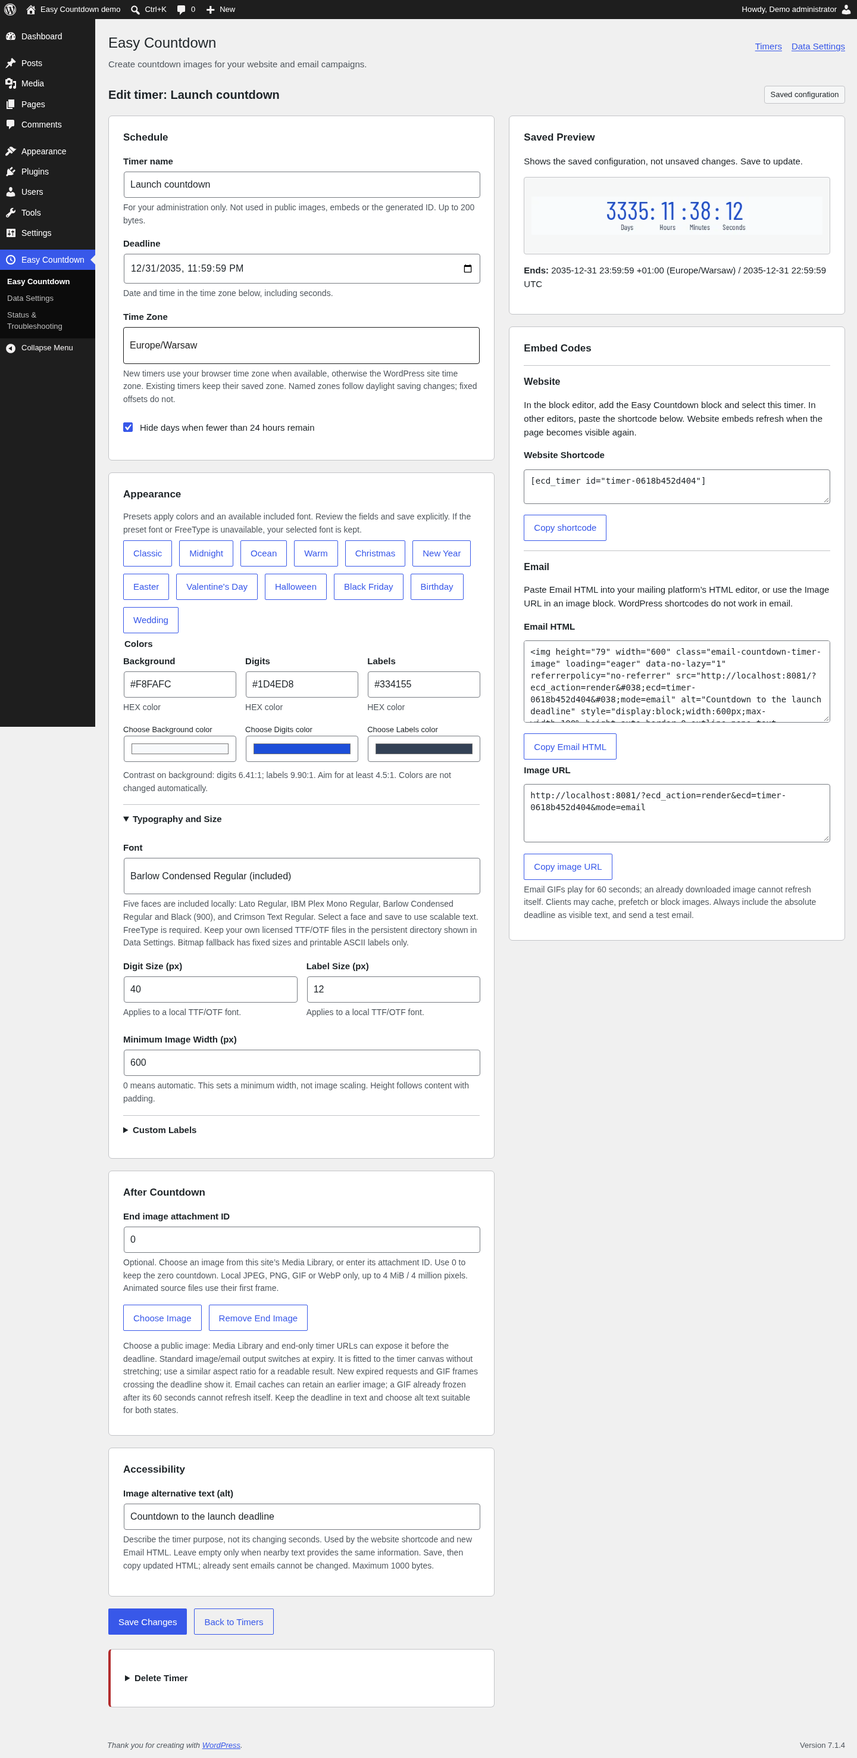
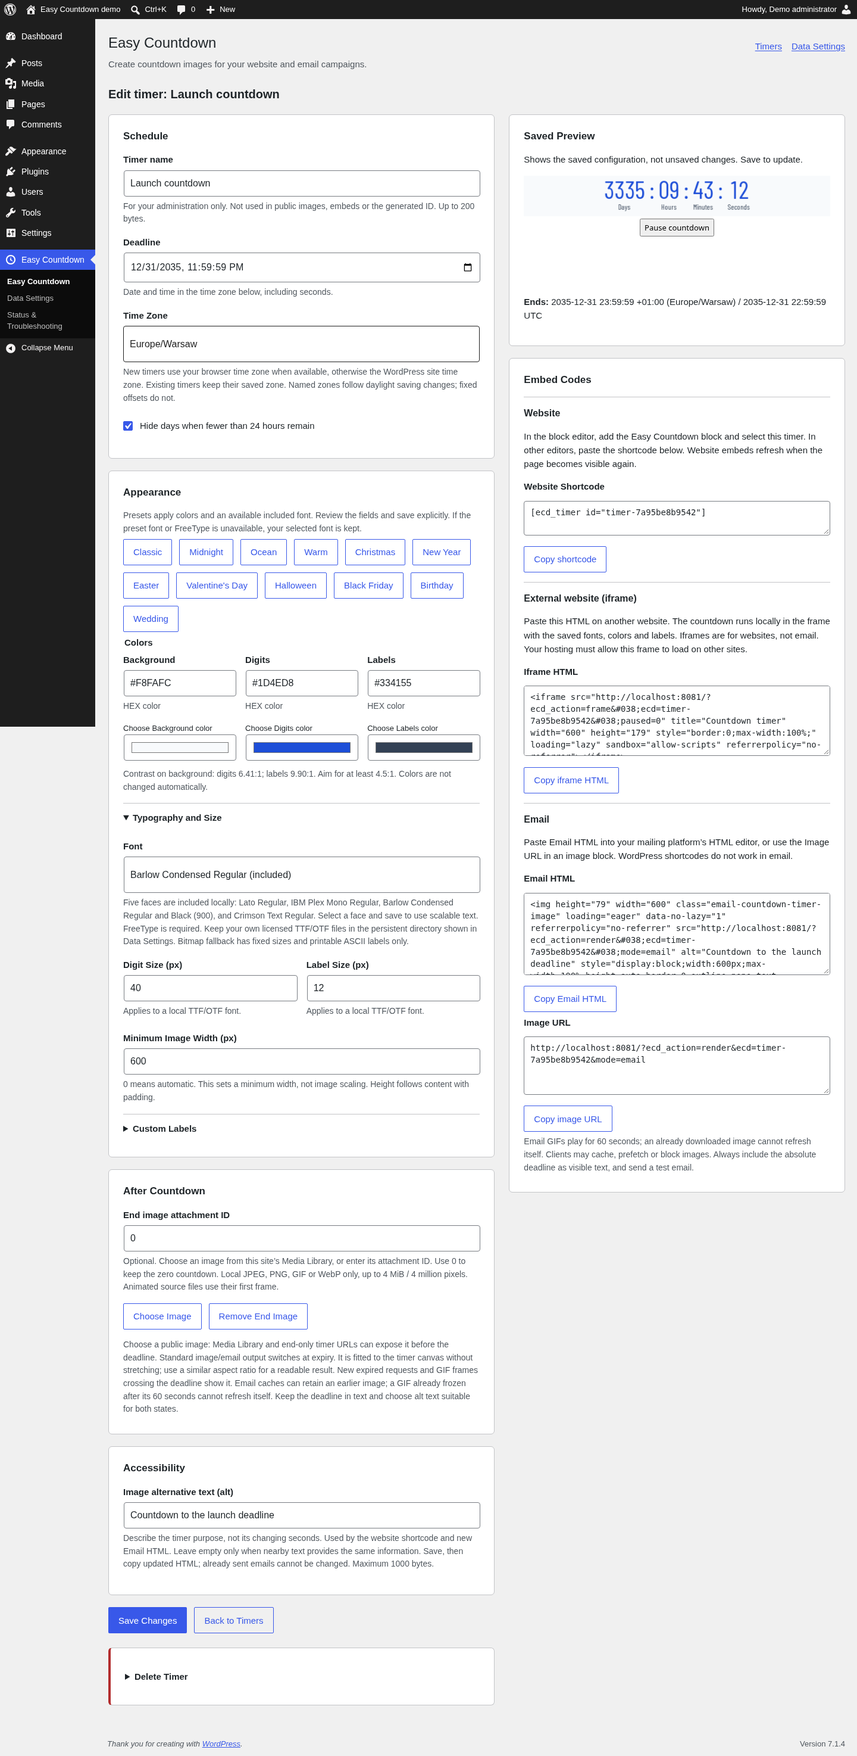
Refresh 12.8.0 handoff and native screenshots; cover nested preview messages

diff --git a/docs/wiki/Admin-Interface.md b/docs/wiki/Admin-Interface.md
@@ -1,10 +1,10 @@
 # Admin Interface
 
-The 12.2.0 interface runs inside the existing **Easy Countdown** WordPress menu. All writes require `manage_options` and valid nonces. The option name, shortcode, image query parameters and existing campaign values remain compatible.
+The interface runs inside the existing **Easy Countdown** WordPress menu. All writes require `manage_options` and valid nonces. The option name, shortcode, image query parameters and existing campaign values remain compatible.
 
 ## Find or create a timer
 
-The default screen is **Your Timers**, with name/ID search and 25 records per page. It shows an optional campaign name alongside the immutable ID, deadline/time zone, a text status, **Edit** and **Get Embed Code**. It does not generate image thumbnails. Pagination limits HTML, not the size of the existing single database option containing all timers.
+The default screen is **Your Timers**, with name/ID search and 25 records per page. It shows saved timer names, deadline/time zone, a text status, **Edit** and **Get Embed Code**. It does not generate image thumbnails. Pagination limits HTML, not the size of the existing single database option containing all timers.
 
 Select **Create Timer**. Enter a required unique **Timer name**, deadline and time zone in **Schedule**, then choose the countdown preset/colors in **Appearance**. Internal IDs are generated on the server and hidden from ordinary management fields. Typography, custom labels and existing geometry controls remain available.
 
@@ -20,13 +20,13 @@ The **Time Zone** selector initializes new forms from the browser zone when supp
 
 **Create Timer** and **Save Changes** submit explicitly. There is no autosave. Invalid fields are marked individually and listed in an error summary. With JavaScript, focus moves to the summary and linked fields open their enclosing sections. Server validation preserves entered scalar values; malformed non-scalar requests are rejected. A failed database write must not show a success message.
 
-The unsaved-change badge tracks changes locally; browsers may warn before leaving an edited form. No request is made for each keystroke or color change. The contrast helper compares digit/label colors against the image background without changing campaign colors or guaranteeing accessibility of a complete email.
+The form tracks unsaved changes locally; browsers may warn before leaving an edited form. No save-status badge is shown. No request is made for each keystroke or color change. The contrast helper compares digit/label colors against the image background without changing campaign colors or guaranteeing accessibility of a complete email.
 
 ## Preview and embedding
 
-**Saved Preview** loads a static image from the existing image endpoint. It deliberately does not pretend to show unsaved values. Save first to update the image. If Imagick is present, **Preview Animation** loads the GIF only after a click. **Stop Preview** returns to the static image. A hidden browser tab also stops the preview; no refresh polling is installed.
+**Saved Preview** counts down locally in a sandboxed iframe using the saved deadline and rasterized local font. Save first to apply form changes. Pause/Resume freezes the snapshot and catches up when resumed; returning to a hidden tab catches up without repeated server requests. JavaScript is required for ticking; no-JS keeps a static PNG snapshot. There is no Preview Animation button or per-second polling.
 
-**Embed Codes** offers Image URL, Email HTML and Website Shortcode. The email HTML includes image alternative text and the absolute deadline as text. Review that text before mailing, especially after changing a campaign deadline. No image can guarantee correct countdown timing in all email clients because proxies, prefetch and caching remain outside this plugin's control.
+**Embed Codes** offers Image URL, image-only Email HTML, Website Shortcode and External website (iframe). Copy the iframe into another website’s HTML editor; scripts must be allowed and host framing headers must permit the standalone frame URL. Email HTML retains image alternative text without an appended deadline paragraph. Add explanatory deadline text in your own template when needed. No image can guarantee correct countdown timing in all email clients because proxies, prefetch and caching remain outside this plugin's control.
 
 **Copy Code** announces success only after the clipboard write succeeds. If access is unavailable, it selects the text and explains manual copying. **All formats (manual copy)** exposes normal read-only textareas for every format.
 
@@ -58,6 +58,6 @@ The selector offers the five registered bundled faces and installed local TTF/OT
 
 ## Saved animation and email copy
 
-The saved preview starts automatically when JavaScript is enabled, the page is visible and reduced motion is not requested. It refreshes after 58 seconds to continue from the current server time. There is no Preview Animation button. Reduced-motion and no-JavaScript views keep the static preview. Copied Email HTML is image-only; add deadline text in your own email content. Outlook animation follows client settings and is not forced. No Custom CSS or per-timer Clean uninstall control is added.
+The saved preview starts automatically with JavaScript and ticks without motion transitions, including with reduced motion. Imagick is not needed. The fallback PNG can be up to 60 seconds old when the glyph cache is warm; the active clock uses the saved absolute deadline and the device clock. Keep the device clock correct. Copied Email HTML is image-only; add deadline text in your own email content. Outlook animation follows client settings and is not forced. No Custom CSS or per-timer Clean uninstall control is added.
 
 Saved previews and Gutenberg now use locally ticking raster frames. The Gutenberg canvas has no static-preview copy or refresh buttons; actions remain in its sidebar. The editor has no save-status badge. Copy the new External website (iframe) HTML under Embed Codes for other websites; see the main README for cache/header requirements.

diff --git a/docs/REVIEW-HANDOFF-12.8.0.md b/docs/REVIEW-HANDOFF-12.8.0.md
@@ -1,0 +1,75 @@
+# Easy Countdown 12.8.0: active previews and external embedding
+
+This unreleased candidate addresses the maintainer's feedback on 12.7.0.
+The maintainer handles the existing WordPress.org submission personally.
+Preparing this package does not publish a release or submit it for review.
+
+## Exact installation package
+
+- Root, display name and text domain: `easy-countdown`, **Easy Countdown**.
+- Version: **12.8.0**; main file: `email-countdown-timer.php`.
+- Installation ZIP: **656,033 bytes / 41 files**.
[1 lines of base64/hex data omitted]
+- Runtime and screenshot source: `ba33c952bad037d75086006991204558ddc26b28`.
+- Integration, latest-head CI and automated reviews: [PR #44](https://github.com/dominiczajac/email-countdown-timer/pull/44).
+
+Open the successful final CI run linked on the PR, expand **Artifacts**, download
+**plugin-check-evidence**, extract it and install the inner **easy-countdown.zip**.
+The outer evidence ZIP and source/materials ZIPs are not installation packages.
+Check `distribution.json`, both version fields and all 41 manifest hashes.
+The installation hashes must match `.wordpress-org/capture.json`; subsequent
+documentation/catalog-only commits can retain this package identity.
+The [12.7.0 handoff](REVIEW-HANDOFF-12.7.0.md) is historical.
+
+## Changes
+
+Saved admin and Gutenberg previews count down locally, including after 60 seconds
+and after returning from a background tab. They use PNG glyphs rasterized from
+the saved server font, with no font download or request per second. Imagick is
+not required. Pause/Resume freezes and catches up. Reduced-motion settings do not
+prevent plain number changes; no-JS keeps a PNG snapshot. The active clock uses
+the saved absolute deadline and requires a correctly set device clock.
+
+The Gutenberg canvas omits the static-preview explanation and refresh buttons.
+Refresh campaigns, Refresh preview and Pause/Resume preview remain in its sidebar.
+The dashboard clock/title stay together on the left. The inert Saved configuration
+badge is removed, while the unsaved-form navigation guard remains.
+
+**Embed Codes > External website (iframe)** provides copyable HTML for another
+website. Its read-only `ecd_action=frame` route accepts existing canonical IDs
+and GET/HEAD only. It uses an opaque `allow-scripts` sandbox, nonce CSP and
+no-referrer policy. It exposes neither private names nor font paths/files.
+Errors are visible and send only a boolean status to the owning editor window.
+
+Exclude `ecd_action=frame` from page/edge caches. Host-injected X-Frame-Options
+or CSP may block external framing and require a narrowly scoped host rule.
+The route uses one short-lived raster cache slot per timer, the existing session
+lock topology and a 256 KiB ceiling (or smaller configured limit). Busy or
+unsupported locks use an active system-font fallback. The cached no-JS snapshot
+can be up to 60 seconds old. This is not a global rate limit or complete SQLite
+compatibility; apply the deployment's infrastructure capacity policy.
+
+Image/GIF/email output, saved settings, existing URLs, five pinned OFL faces and
+the original renderer/oracle remain unchanged. The iframe is for websites;
+copied email HTML remains image-only. Custom CSS, per-timer clean uninstall and
+forced Outlook autoplay remain excluded. Global opt-in cleanup is unchanged.
+
+## Evidence and owner acceptance
+
+[Executed local checks](CI-VERIFICATION-12.8.0.md) and six genuine native WordPress
+screenshots are recorded separately from hosted CI and automated static review.
+The PR/delivery receipt identifies final hosted results and parsed Plugin Check
+findings. A green badge alone does not replace those reports or owner acceptance.
+
+All rows in [ACCEPTANCE-12.8.0.csv](ACCEPTANCE-12.8.0.csv) remain pending. Retest
+the exact bytes on staging, including nested Gutenberg, no-JS, narrow layouts,
+manual assistive technology, below 24h/expiry, cross-origin embedding and actual
+host CSP/cache settings. Record real host/theme/PHP/client versions and results.
+Licensed FlyingPress/WP Rocket packages and real Sendy → Gmail/Outlook/Apple Mail
+acceptance remain separate dependencies. Classic Office LTSC Professional Plus
+2024 controls GIF playback; the plugin does not force it.
+
+Use the existing **easy-countdown** review thread and confirmed **ddoomm** account;
+do not create a duplicate submission. Review the [unsent reply](WORDPRESS-ORG-REPLY-12.8.0.md)
+after completing acceptance. No real email, production deployment, release/tag,
+native Wiki, environment or WordPress.org publication is performed here.

diff --git a/docs/CI-VERIFICATION-12.8.0.md b/docs/CI-VERIFICATION-12.8.0.md
@@ -1,0 +1,68 @@
+# 12.8.0 candidate: executed checks and boundaries
+
+This record covers [PR #44](https://github.com/dominiczajac/email-countdown-timer/pull/44).
+It records executed local results. Final hosted checks, automated Codex/Claude
+reviews and integrated-main verification are identified on that PR and in the
+delivery receipt; no future run is predeclared successful.
+
+## Package and local execution
+
+Runtime/capture source: `ba33c952bad037d75086006991204558ddc26b28`.
+Installation ZIP: **12.8.0**, **656,033 bytes**, **41 files**;
[1 lines of base64/hex data omitted]
+All installed hashes were read back on the native WordPress container and match
+the build manifest and `.wordpress-org/capture.json`.
+
+Executed checks include:
+
+- **762 PHP assertions**, **792** with alt compatibility, and **76 block adapter
+  assertions**, using native GD/FreeType/Imagick where available.
+- **346 frame assertions**: five fonts, custom/empty/Polish labels, expiry,
+  data/escaping boundaries, all 15 PNG sprites, the valid 3999×53 bitmap canvas
+  and an unsupported-lock active system-font fallback.
+- JavaScript frame-clock checks in raster, system-font and initially hidden/paused
+  modes: absolute deadline, 65-second progression, pause/resume, sleep, visibility,
+  persisted pageshow and expiry. **38 Gutenberg component assertions**, including
+  owning-window messages, spoof rejection and HTTP failure not cleared by load.
+- **22 clipboard assertions**, timezone aliases, privacy audit/tripwire,
+  syntax/whitespace checks and **16 packaging tests**.
+- Native Apache WordPress **7.1.4**, PHP **8.4.27**, MySQL **8.4.13**:
+  **123 admin**, **15 alt**, **4 privacy**, **6 maintenance**, **10 end-image**
+  and **18 frame browser checks** passed against this installed package.
+
+Native frame checks exercise a genuinely different-origin parent, opaque sandbox,
+PNG decoding, reduced-motion ticking, 65 seconds without image polling, pause,
+expiry/end-image, cold/warm cache headers, GET/HEAD/405/404/503, no private names
+or paths and nonce/CSP/no-store/referrer headers. Six screenshots were captured
+from synthetic data in the real panel, without editing UI pixels. The receipt
+contains source/tree, installed files, image dimensions/hashes, browser/server
+versions, actual anonymous PNG decoding and a copied diagnostics report.
+
+## Failures retained and corrected
+
+Earlier runs failed because old profile tests still queried `complete` and
+`naturalWidth` on the new iframe. These tests now inspect the actual decoded
+canvas, retaining their width requirement. Native clipboard testing also exposed
+a Chromium out-of-process iframe hit-test race immediately after parent scrolling;
+the real pointer test now allows the compositor to settle before clicking.
+No failed run is relabeled or waived.
+
+Review found four further defects: HTTP iframe load falsely cleared errors,
+sprite padding exceeded a valid renderer canvas, nested Gutenberg status was
+sent to the wrong window, and a background-loaded paused frame hid its fallback
+before drawing. Explicit status/ping, fit-to-original bounds, owning-window
+listeners and first-visible-draw behavior have regression coverage. The original
+renderer and frozen oracle are unchanged.
+
+Hosted CI independently installs the canonical ZIP on minimum/current WordPress,
+FPM/JIT, database/Redis, multisite/theme and named isolated/LiteSpeed profiles.
+Plugin Check must be parsed for both warnings and errors. Automated review is
+static review, not human approval or owner acceptance.
+
+## Remaining acceptance
+
+[All owner worksheet rows](ACCEPTANCE-12.8.0.csv) remain pending. Previous package
+feedback does not establish acceptance of these bytes. Actual host framing/cache
+rules, manual accessibility, licensed optimizers and real Sendy/client delivery
+remain separate. No release, submission, actual mail or production change is
+implied by this candidate.

diff --git a/docs/WORDPRESS-ORG-READINESS.md b/docs/WORDPRESS-ORG-READINESS.md
@@ -4,7 +4,7 @@
 
 The maintainer supplied the **Easy Countdown** acknowledgement from 3 November 2025 and the 8 April 2026 notice inviting an updated ZIP in the original thread. Continue the existing **easy-countdown** submission; do not create a duplicate. This repository does not claim directory approval.
 
-The current unreleased candidate is **12.7.0**: **Easy Countdown** as its display name, `easy-countdown` as its translation domain and ZIP root, and the existing main PHP filename. GitHub retains its repository name. Review [identity and compatibility](EASY-COUNTDOWN-EXPIRY-IMAGE.md) before moving an installation from the old GitHub package directory. The maintainer will submit the plugin personally; preparing these files does not send anything.
+The current unreleased candidate is **12.8.0**: **Easy Countdown** as its display name, `easy-countdown` as its translation domain and ZIP root, and the existing main PHP filename. GitHub retains its repository name. Review [identity and compatibility](EASY-COUNTDOWN-EXPIRY-IMAGE.md) before moving an installation from the old GitHub package directory. The maintainer will submit the plugin personally; preparing these files does not send anything.
 
 The confirmed WordPress.org contributor is **ddoomm** (Simple Fast Secure), as recorded in the historical [12.5.2 handoff](REVIEW-HANDOFF-12.5.2.md). Keep that confirmed username; do not replace it with an email or infer another profile from the GitHub account. The maintainer still needs to verify current account access, monitored email and 2FA.
 
@@ -14,7 +14,7 @@ The project includes a protected PR workflow; validation, escaping and permissio
 
 A single explicit manifest and ZIP builder are used by Plugin Check and disposable WordPress installation tests. CI includes PHP/GD/Imagick, WordPress single/multisite with database and Redis cache, browser interactions, full loopback HTTP, and Apache/nginx font-access tests. Results belong to the exact source revision and are recorded in its PR. Prior green reports do not establish verification of a later candidate.
 
-The [current Gate A handoff](REVIEW-HANDOFF-12.7.0.md) describes the exact package, genuine catalog screenshots, receipt and [pending maintainer worksheet](ACCEPTANCE-12.7.0.csv). The installed package includes the native block, optional website live text, five local font faces, occasion presets, Quick Create/dashboard access, campaign management and on-demand diagnostics. Animated GIF remains the default image mode; static previews respect PNG/WebP Accept preferences. Named compatibility profiles retain their exact tested sources/settings and negative results; paid optimizers, real sender/client delivery and arbitrary combinations are not certified. Earlier 12.6.0/12.6.1 receipts remain historical. Owner feedback on 12.6.1 does not establish acceptance of the new candidate.
+The [current Gate A handoff](REVIEW-HANDOFF-12.8.0.md) describes the exact package, genuine catalog screenshots, receipt and [pending maintainer worksheet](ACCEPTANCE-12.8.0.csv). The installed package includes the native block, optional website live text, five local font faces, occasion presets, Quick Create/dashboard access, campaign management and on-demand diagnostics. Animated GIF remains the default image mode; static previews respect PNG/WebP Accept preferences. Named compatibility profiles retain their exact tested sources/settings and negative results; paid optimizers, real sender/client delivery and arbitrary combinations are not certified. Earlier 12.6.0/12.6.1 receipts remain historical. Owner feedback on earlier packages does not establish acceptance of the new candidate. The candidate adds active admin/block previews and an optional external iframe; image/email delivery remains unchanged.
 
 ## Before uploading revised files
 

diff --git a/README.md b/README.md
@@ -106,7 +106,7 @@ New shortcode output includes renderer-derived `width`/`height`, an explicit CSS
 
 Custom theme CSS can still override this reservation. Purge the affected HTML page cache after changing geometry/fonts and recopy old HTML embeds to receive the new attributes. An unavailable native renderer or invalid saved configuration cannot provide a reliable calculated size. This is a targeted CLS mitigation, not a guarantee of whole-page LCP/INP/CLS scores.
 
-New Email HTML uses explicit proportional dimensions, a maximum default display width of 600 pixels, inline styles, alt and an absolute deadline outside the image. Place it inside your email template's content cell. No script, CSS animation, web font or remote service is required in the message. The chosen end image is fitted to the same image canvas.
+New Email HTML uses explicit proportional dimensions, a maximum default display width of 600 pixels, inline styles and alt text, without an appended deadline paragraph. Place it inside your email template's content cell. No script, CSS animation, web font or remote service is required in the message. The chosen end image is fitted to the same image canvas.
 
 With **Hide days**, new image responses keep at least the four-unit canvas width at the 24-hour boundary, including later fresh GIFs and static fallbacks. Days disappear below 24 hours; the remaining units are centered at the same glyph size. This avoids enlarging digits when email HTML retains its original display width. The image width below 24 hours changes from older versions; recopy embeds created with the older narrower image. An already downloaded/cached image cannot be replaced. The source-version bump invalidates plugin image signatures and admin assets once; page/email-provider caches remain external.
 
@@ -151,7 +151,7 @@ php tests/run.php
 php tests/uninstall.php
 ```
 
-The build uses an explicit runtime manifest, verifies metadata and refuses symlinks/missing/unlisted runtime files. Plugin Check, real WordPress lifecycle, browser and HTTP tests install this ZIP. Only the allowlisted example font and its notices are bundled; user fonts, tests, CI and development docs are not. Python is a packaging dependency only. [Build and verification instructions](docs/DISTRIBUTION-BUILD.md).
+The build uses an explicit runtime manifest, verifies metadata and refuses symlinks/missing/unlisted runtime files. Plugin Check, real WordPress lifecycle, browser and HTTP tests install this ZIP. Only the five allowlisted font faces and their notices are bundled; user fonts, tests, CI and development docs are not. Python is a packaging dependency only. [Build and verification instructions](docs/DISTRIBUTION-BUILD.md).
 
 [Wiki sources](docs/wiki/Home.md) · [Changelog](CHANGELOG.md) · [Directory readiness](docs/WORDPRESS-ORG-READINESS.md) · [Static fallback](docs/STATIC-FALLBACK.md)
 

diff --git a/docs/WORDPRESS-ORG-REPLY-12.8.0.md b/docs/WORDPRESS-ORG-REPLY-12.8.0.md
@@ -1,0 +1,36 @@
+# Existing easy-countdown review thread: unsent reply
+
+The maintainer adapts and sends this personally after acceptance. Attach only the
+identified installation ZIP. This draft does not assert that host acceptance,
+account access or 2FA is complete and sends nothing.
+
+---
+
+Hello Plugin Review Team,
+
+I would like to provide an updated **Easy Countdown 12.8.0** ZIP for my existing
+**easy-countdown** submission. The contributor account remains **ddoomm**.
+
+The package includes local countdown image rendering, five licensed static font
+faces and original OFL notices, occasion presets, dashboard creation, campaign
+management and a native block. This update fixes active editor previews, removes
+redundant preview controls and adds an optional sandboxed iframe for external
+websites. Email output remains image-only. The public frame serves only saved
+timer presentation, without private names or font downloads, using bounded
+local raster caches. No developer telemetry or recipient tracking is added.
+
+Installation ZIP: **656,033 bytes / 41 files**.
[1 lines of base64/hex data omitted]
+
+Source and verification:
+https://github.com/dominiczajac/email-countdown-timer/pull/44
+
+My host acceptance: **[date, actual host/PHP/WordPress/theme versions and result]**.
+Remaining environment/client limitations: **[record accurately]**.
+Automated checks do not guarantee every optimizer/client or full accessibility
+conformance. I have attached the exact installation ZIP identified above.
+
+Please let me know if you require further changes in this existing submission.
+
+Thank you,
+**[maintainer name]**

diff --git a/.wordpress-org/README.md b/.wordpress-org/README.md
@@ -1,11 +1,11 @@
-# Easy Countdown 12.7.0 catalog materials
+# Easy Countdown 12.8.0 catalog materials
 
 The six PNGs are genuine browser captures of an owned synthetic WordPress 7.1.4
-installation using the exact 12.7.0 installation ZIP. They are excluded from
+installation using the exact 12.8.0 installation ZIP. They are excluded from
 the installation manifest and are separate WordPress.org presentation materials.
 
 The numbered views follow readme.txt: dashboard Quick Create; saved timer and
-typography; Website/Email embedding; native block/live text; diagnostics; Privacy
+typography; Website/Email/external iframe embedding; active native block and sidebar controls; diagnostics; Privacy
 Policy Guide. capture.json records the exact ZIP/hash/bytes, every installed
 file hash, source/tree, actual native Apache/PHP/WordPress/browser environment,
 screenshot hashes/dimensions/captions, selected checks and blocked external hosts.
@@ -18,4 +18,4 @@ installation identity. Compare every manifest hash against final CI. A shipped
 file change requires refreshed package identity and relevant capture/checks.
 Use only the install ZIP for the existing submission; the materials ZIP is not
 installable. Preparing/committing these files does not publish the directory,
-SVN, native Wiki or environment. See [current handoff](../docs/REVIEW-HANDOFF-12.7.0.md).
+SVN, native Wiki or environment. See [current handoff](../docs/REVIEW-HANDOFF-12.8.0.md).
